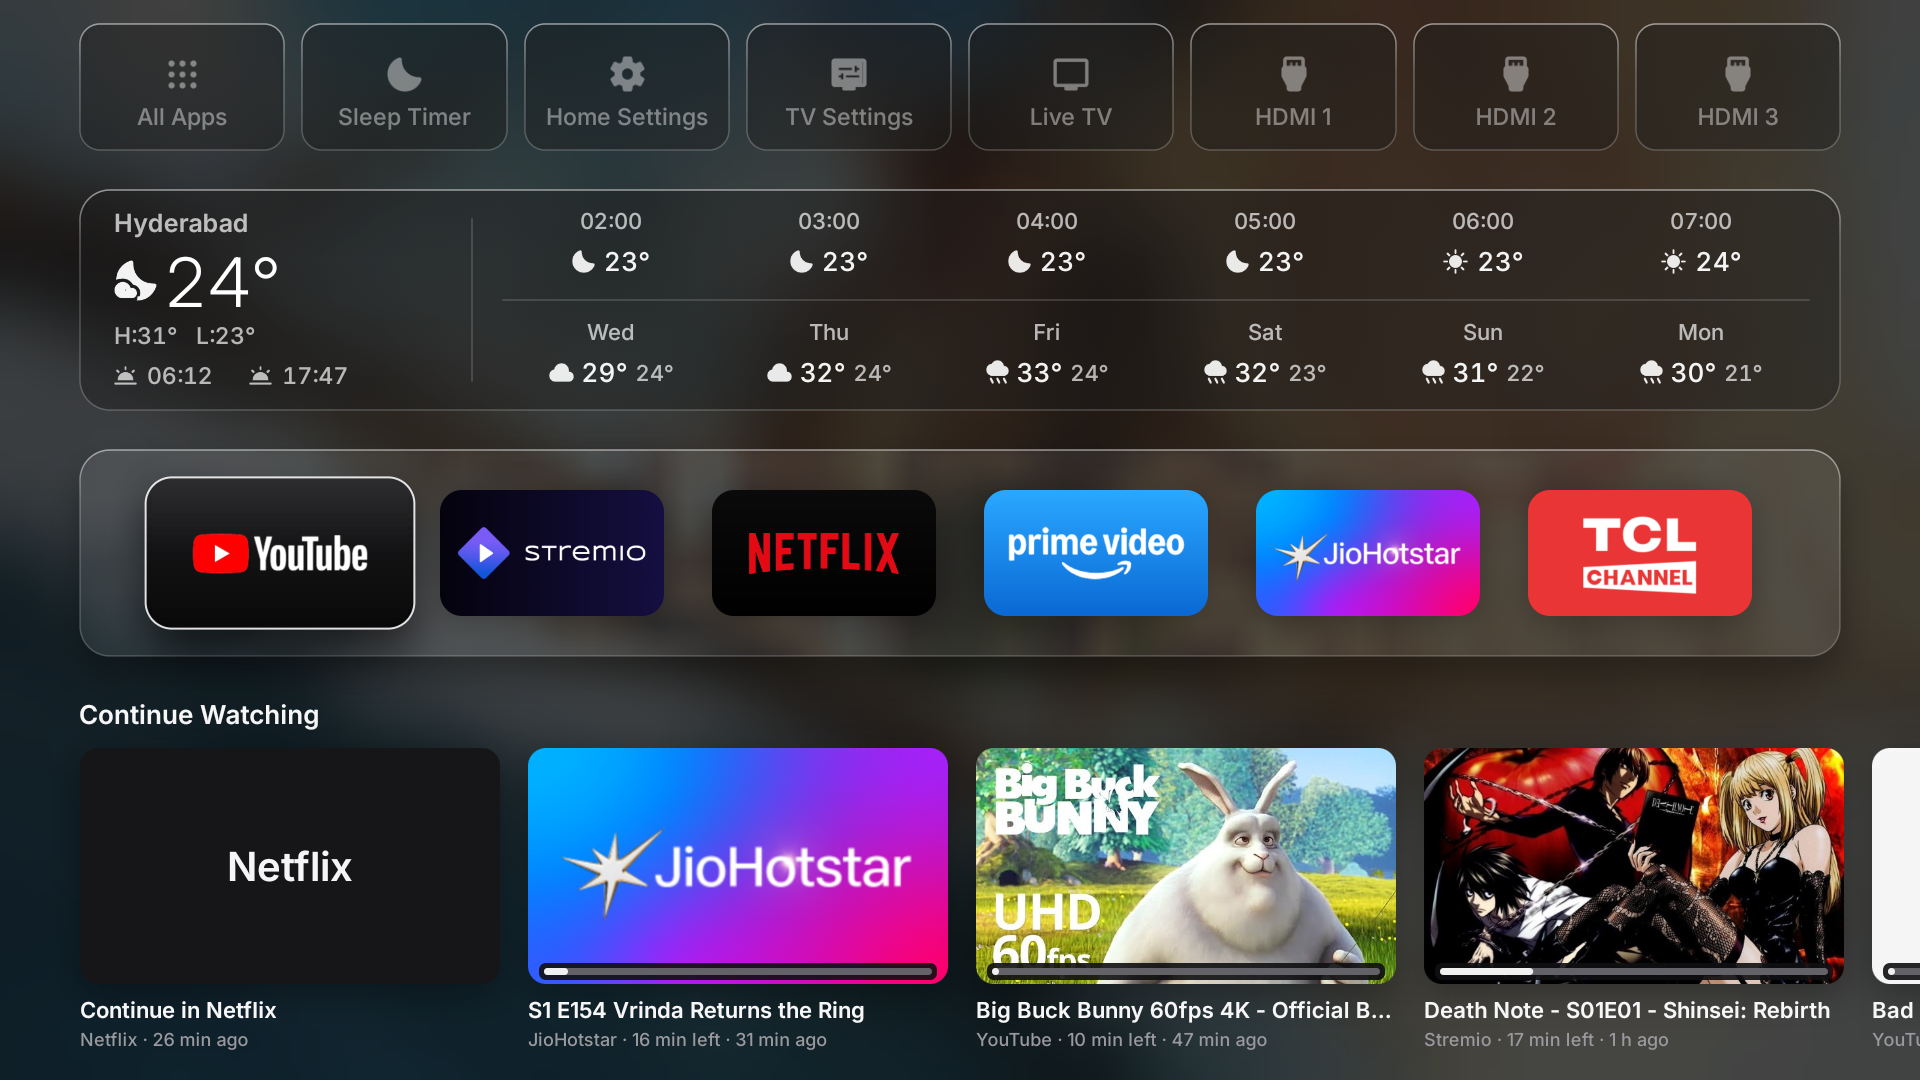
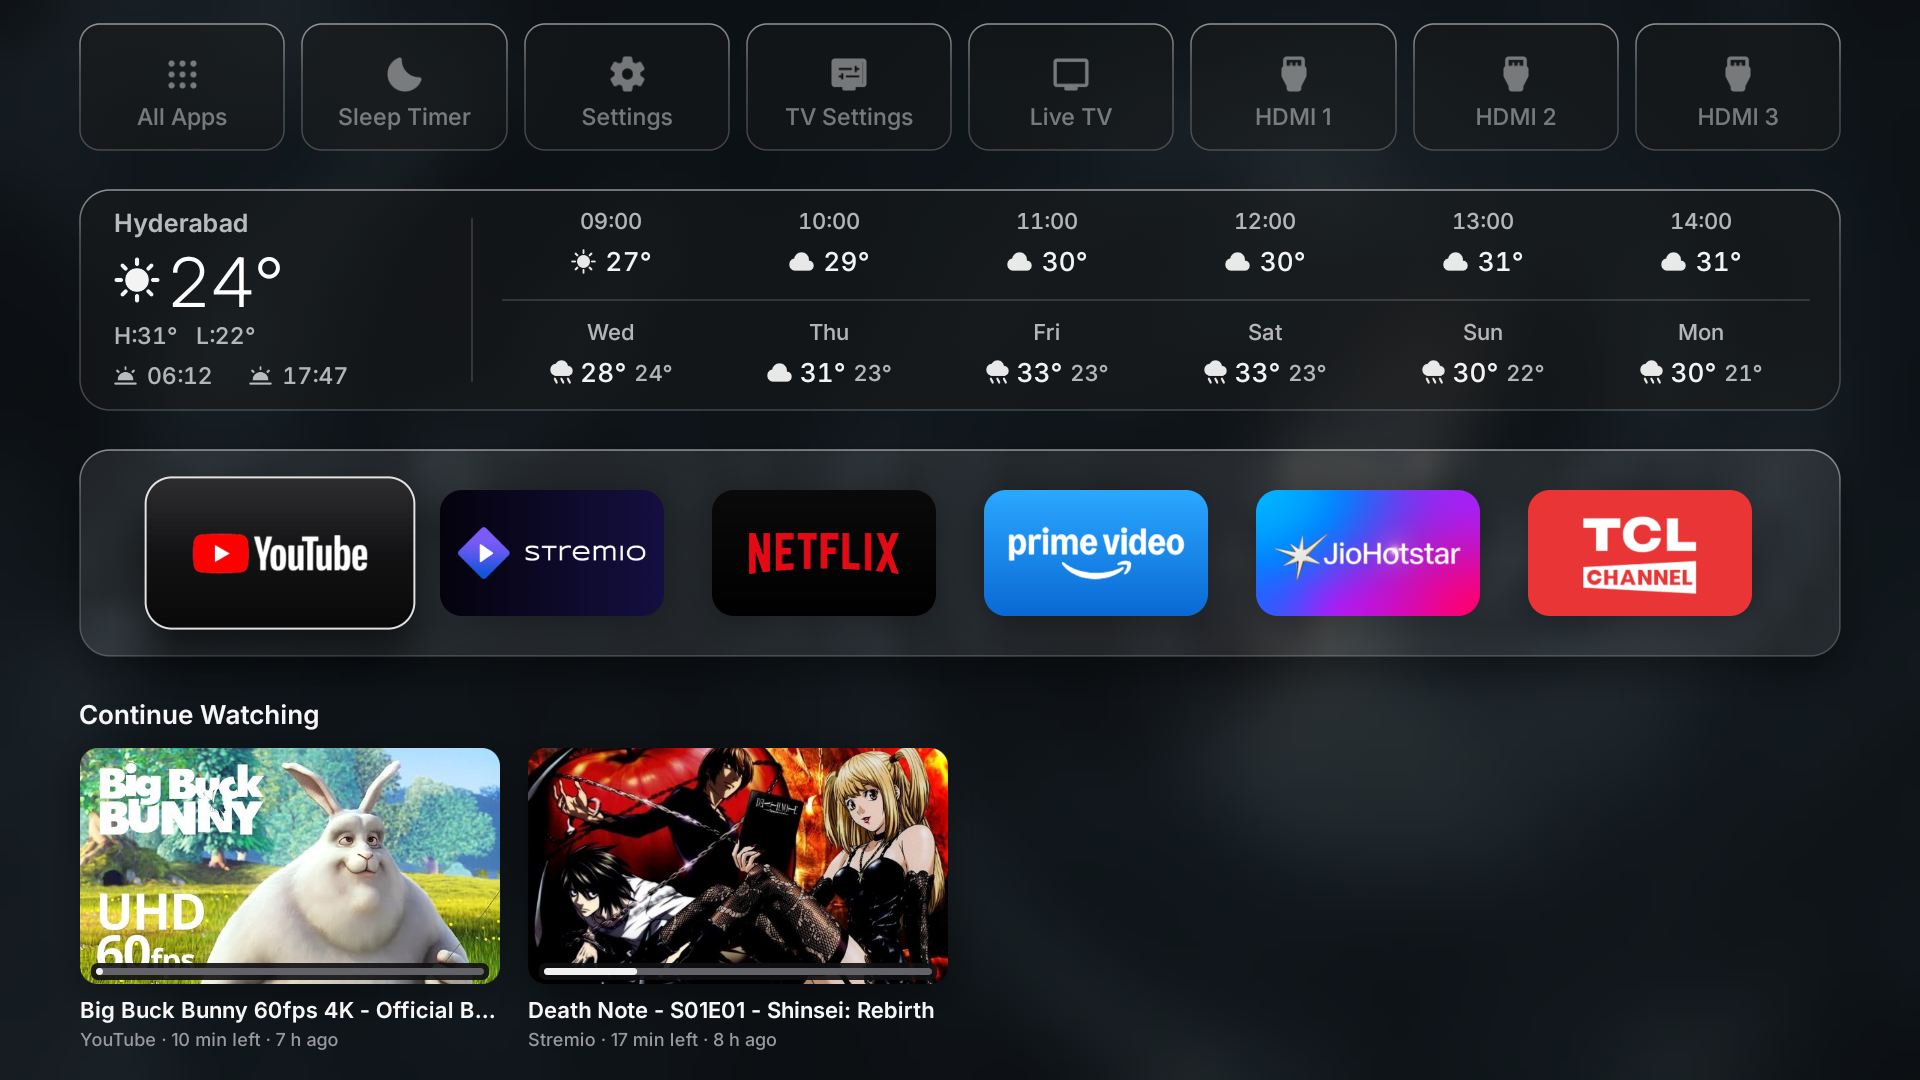
Refresh home gallery with real artwork and record branded fallback status

diff --git a/documentation/SCREENSHOTS.md b/documentation/SCREENSHOTS.md
@@ -2,11 +2,12 @@
 
 [Project](../README.md) · [Feature register](../FEATURES.md) · [Settings polish evidence](../design/SETTINGS_CLARITY_VERIFICATION.md) · [Earlier Settings evidence](../design/SETTINGS_VERIFICATION.md)
 
-Updated October 27, 2026. These are genuine 1920 × 1080 TCL Android 12 captures, inspected at full resolution. The current Settings captures come from `b88a229` (Vibe TV branding and clearer destinations) built on integrated main `a493c66`, preserving Settings `e740614` and playback `9d4473b`. Home and alternative-theme captures below are earlier device evidence, identified individually. These are source-build captures, not screenshots of a tagged binary release. Theme-picker thumbnails are illustrations; full-screen views are actual device captures.
+Updated October 27, 2026. These are genuine 1920 × 1080 TCL Android 12 captures, inspected at full resolution. The current Settings captures come from `b88a229` (Vibe TV branding and clearer destinations) built on integrated main `a493c66`, preserving Settings `e740614` and playback `9d4473b`. The home capture is refreshed from `3e382d0`, which includes that Settings polish plus branded app-art fallback cards. Alternative-theme captures below remain earlier device evidence, identified individually. These are source-build captures, not screenshots of a tagged binary release. Theme-picker thumbnails are illustrations; full-screen views are actual device captures.
 
 | Checked-in capture | Original local capture | Provenance / observed state |
 |---|---|---|
-| [Final home](screenshots/home-playback.png) | `final/16-final-home.png` | Final `e740614` installed build; Vibe TV 1/default order, Netflix app-level card, JioHotstar logo fallback, YouTube/Stremio artwork and progress |
+| [Final home](screenshots/home-playback.png) | `netflix-card-art/04-gallery-home.png` | Installed `3e382d0`; Vibe TV 1/default order, YouTube and Stremio artwork/progress. Netflix, JioHotstar and an older logo-only YouTube entry dismissed through normal card menus for the gallery view. |
+| [Branded app-art fallback](screenshots/playback-app-art.png) | `netflix-card-art/01-branded-fallback.png` | Same installed build before the gallery cleanup; Netflix uses its installed app art like JioHotstar, while retaining the explicit Continue in Netflix caption. This is app branding, not a movie thumbnail. |
 | [Theme picker](screenshots/settings-themes.png) | `settings-clarity/02-themes.png` | Installed `b88a229`; Vibe TV header, Themes palette icon, distinct Home Layout / Preferences destinations |
 | [Widgets](screenshots/settings-widgets.png) | `settings-clarity/06-widgets.png` | Installed `b88a229`; updated rail labels, continuous Widgets and following Shelf content |
 | [Home Layout](screenshots/settings-sections.png) | `settings-clarity/03-layout.png` | Installed `b88a229`; Home Layout editor, stacked-section icon, first row focused |
@@ -15,11 +16,13 @@ Updated October 27, 2026. These are genuine 1920 × 1080 TCL Android 12 captures
 | [Preferences](screenshots/settings-preferences.png) | `settings-clarity/05-preferences-crossing.png` | Installed `b88a229`; right-side Down crossed into Language and updated the rail selection |
 | [Earlier reboot evidence](screenshots/home-after-reboot.png) | `post-reboot-home.png` | Historical Home + initial playback baseline, before final themes/artwork; does not establish final-build reboot acceptance |
 
-The source captures live under `/tmp/free-my-tv-tv-check/`. Firmware/identity details and final integration checks are recorded in [integration verification](../design/INTEGRATION_VERIFICATION.md). Streaming-app versions were not recorded for the earlier provider tests. City weather and test title metadata remain visible; no network address, account identity or credentials appear in these captures.
+The source captures live under `/tmp/free-my-tv-tv-check/`. The refreshed home/app-art captures were taken on the TCL Smart TV Pro (retail reference 55Q6CS), Android 12, from app version 1.2 / version code 3. They include `b88a229` Settings behavior and `3e382d0` card rendering; the working tree had only documentation/capture changes after installation. Firmware/identity details and final integration checks are recorded in [integration verification](../design/INTEGRATION_VERIFICATION.md). Streaming-app versions were not recorded for the earlier provider tests. City weather and test title metadata remain visible; no network address, account identity or credentials appear in these captures.
 
 ## Final home
 
 ![Vibe TV 1 final installed home](screenshots/home-playback.png)
+
+The image is an unedited hardware capture. The user requested an artwork-led gallery view, so logo-only entries were removed using the existing long-press menu before capture; this does not add thumbnail support to Netflix or JioHotstar. [The same build before cleanup](screenshots/playback-app-art.png) records Netflix’s branded fallback. Provider limits remain in [PLAYBACK_STATUS.md](../PLAYBACK_STATUS.md).
 
 ## Theme selection
 

diff --git a/PLAYBACK_STATUS.md b/PLAYBACK_STATUS.md
@@ -26,7 +26,7 @@ integrating a new home theme. `stable` remains at `b920f4a`; playback `9d4473b` 
 | YouTube | Title, thumbnail and contrasting progress bar verified with a public Blender video. | Existing session resumes; a video ID can provide a direct video link when the app supplies one. |
 | Stremio | Title/progress confirmed by the user; exact-title fallback artwork verified on the TV. | Reopens Stremio and uses its own saved playback. |
 | JioHotstar | Episode title and duration/progress verified. No thumbnail: live metadata had no artwork, series name or media ID. | App/current episode reopened and published PLAYING with an advancing position. Exact-title deep links are not available from this session. |
-| Netflix | A real PLAYING session had null metadata, null session extras and no session launch intent. It now creates an explicit **Continue in Netflix** card, with an app-name tile rather than a fabricated title. | Card opens Netflix. Automatic playback did not reliably restart; exact-title resume and thumbnails remain unresolved. |
+| Netflix | A real PLAYING session had null metadata, null session extras and no session launch intent. It now creates an explicit **Continue in Netflix** card, with a branded app-art tile rather than a fabricated title or movie thumbnail. | Card opens Netflix. Automatic playback did not reliably restart; exact-title resume and thumbnails remain unresolved. |
 | Prime Video | Observed sessions supplied only **PrimeVideo** rather than the content title. App-level **Continue in Prime Video** fallback is implemented and covered by data tests. | App launch verified; reliable content capture and automatic resume remain unverified. |
 
 Android’s Watch Next and preview-program providers were empty during this check, so they offered no alternative title or
@@ -64,3 +64,18 @@ Viewing history is private app data on the TV. Media notifications are not read.
 may be fetched; a known YouTube ID can fetch a public thumbnail, and exact movie/show title lookups may be sent to TMDB
 when session artwork is absent. README’s privacy section reflects these requests. Credentials and full signed playback
 URLs must never be printed or committed.
+
+## Branded-card and gallery polish — 27 October 2026
+
+Runtime `3e382d0` changes the Vibe TV 1 card renderer to request app art even when a provider supplies no content title.
+Netflix now uses its installed app artwork through the same tile path as JioHotstar. Real content artwork still takes
+priority; text is a temporary fallback only if app artwork is unavailable. This is a visual change: Netflix/Prime
+exact-title capture, thumbnails and reliable automatic resume remain unresolved as recorded above.
+
+Built and installed with Java 17 / platform 34 / build-tools 34.0.0. Full `tools/check.sh` passed, including all 271
+translation keys, generic LG/Samsung packaging and legacy web checks. Both 1920 × 1080 captures were inspected at original
+resolution. The user-requested gallery view was prepared with the existing long-press removal menu: Netflix, JioHotstar
+and an older logo-only YouTube entry were dismissed, leaving YouTube and Stremio artwork/progress. Home return confirmed
+those entries stayed removed. The normal dock apps remain present. This pass did not repeat provider playback or the
+19 data-regression cases, since session handling and storage did not change. Current images and provenance are in
+[documentation/SCREENSHOTS.md](documentation/SCREENSHOTS.md).

diff --git a/DESIGN.md b/DESIGN.md
@@ -82,7 +82,7 @@ Hold recommendation choices steady while the home screen remains open. Advance t
 
 In Vibe TV 1's default order, show this row above recommendations only when it contains saved items. It is opt-in in **Preferences → Widgets** and shares media-session access with Now Playing. Keep at most twelve entries; YouTube expires after two days and other services after ten. The listener captures playback while other apps are in front. Prefer session artwork, then an exact-title TMDB fallback for movies/shows, then app artwork. Only show progress and remaining time when valid duration data exists, and keep the progress fill contrasting against a dark backing.
 
-YouTube title/artwork/progress and Stremio title/artwork/progress are verified on this TCL. A known YouTube video ID can open the video directly; Stremio reopens its own saved playback. Netflix's observed session has no useful metadata, so show **Continue in Netflix** with an app tile. Prime Video similarly uses an app-level fallback. Their app launches do not establish exact-title capture, thumbnails or reliable automatic playback. JioHotstar title/progress are verified, but its session has no unambiguous thumbnail or series identifier. Preserve the app-logo fallback. Provider facts and remaining limitations are recorded in [PLAYBACK_STATUS.md](PLAYBACK_STATUS.md), based on the `9d4473b` playback baseline.
+YouTube title/artwork/progress and Stremio title/artwork/progress are verified on this TCL. A known YouTube video ID can open the video directly; Stremio reopens its own saved playback. Netflix's observed session has no useful metadata, so show **Continue in Netflix** with the same branded app-art tile path used for JioHotstar. An empty content title must not suppress app artwork; use plain app-name text only while no app art is available. Prime Video similarly uses an app-level fallback. Their app launches do not establish exact-title capture, thumbnails or reliable automatic playback. JioHotstar title/progress are verified, but its session has no unambiguous thumbnail or series identifier. Preserve the app-logo fallback. Provider facts and remaining limitations are recorded in [PLAYBACK_STATUS.md](PLAYBACK_STATUS.md), based on the `9d4473b` playback baseline.
 
 Hold OK on a resume card for **Remove from Continue Watching**, or on a recommendation for **Hide from recommendations**. Back/Cancel dismisses the menu and the original held-key release must not activate an action. Removal persists across visits and paused-session callbacks; hiding applies across recommendation shelves without rotating the remaining choices. Preserve this tested Vibe TV 1 behavior during theme integration; record per-theme checks before claiming equivalent support elsewhere.
 

diff --git a/FEATURES.md b/FEATURES.md
@@ -13,7 +13,7 @@ Updated October 27, 2026 after combining the three chats into `main`. Home basel
 | Continuous Settings | Device checked: rail anchors, cross-section navigation, 11th Shelf item, sleep cancel, reachable About content | `SettingsActivity.java`, `Prefs.java` | All 26 languages and spoken TalkBack not hardware tested |
 | Theme picker | Vibe TV 1, Simba (Free-My-TV), Lamplight selected/rendered on TCL; Google TV last | `HomeActivity.java`, `HomeSurface.java`, `HomeThemeThumbs.java`, `RepositoryHomeView.java`, `LamplightHomeView.java`, `ImpeccableHomeRenderer.java` | Factory-mode switch not activated in the final pass; previews are illustrations |
 | Vibe TV 1 section editor | Device checked: hide closes gaps, lift/reorder/drop persists, Back restores order/focus; defaults restored | `HomeSections.java`, `HomeView.java`, `SettingsActivity.java` | Conditional on Vibe TV 1; exhaustive order model is not exhaustive hardware coverage |
-| Continue Watching | YouTube/Stremio artwork and progress; title/progress and app-level resume limits documented per service | `Resume.java`, `NowPlaying.java`, `HomeView.java` | Netflix/Prime exact-title capture/resume and JioHotstar artwork unresolved |
+| Continue Watching | YouTube/Stremio artwork and progress; branded app-art fallback checked for Netflix; title/progress and app-level resume limits documented per service | `Resume.java`, `NowPlaying.java`, `HomeView.java` | Netflix/Prime exact-title capture/resume and JioHotstar artwork unresolved |
 | Card controls | Device checked: long OK removes history or hides recommendations across shelves; cancel/release suppression | `HomeView.java`, `Resume.java`, `Recs.java` | Other custom themes do not automatically inherit Vibe's card-control verification |
 | History retention | 2 days YouTube, 10 days other services, at most 12 entries; dismissed/expired paused sessions stay removed | `Resume.java`; `tools/tests/HistoryChecks.java` | Metadata depends on streaming apps |
 | Screensaver, photos, remote buttons | Inherited with shared playback integration | `DreamView.java`, `Screensaver.java`, `ScreensaverAlone.java`, `RemoteKeys.java`, `RemoteKeyService.java` | Validate per firmware; preserve recovery |

diff --git a/COMPATIBILITY.md b/COMPATIBILITY.md
@@ -21,7 +21,7 @@ These summarize the TCL playback tests for `9d4473b`, preserved in final Setting
 | YouTube | Device checked | Title, duration and progress checked | Real video thumbnail captured in the integrated revision | Same public video reopened at saved playback position in baseline test | Direct video opening requires a usable video ID; other sessions can fall back to app opening |
 | Stremio | Launch path checked | Episode and progress shown in the integrated capture | Artwork visible in the integrated capture | App reopen path implemented | Exact-title resume not established by an end-to-end public report |
 | JioHotstar | Device checked | Episode title and progress/duration observed during playback | Missing; app logo fallback | Reopen checked by playback chat | No artwork, series name or content ID in inspected live session; title-specific resume not proven |
-| Netflix | Launch path checked | Live session supplied no title or content ID; user reported capture and reopen failures | No verified title artwork | Integrated revision implements “Continue in Netflix” app-level fallback | Exact-title capture/resume remains unresolved; app opening checked; reliable playback restart unresolved |
+| Netflix | Launch path checked | Live session supplied no title or content ID; user reported capture and reopen failures | Branded app-art fallback checked in `3e382d0`; no verified title artwork | Integrated revision implements “Continue in Netflix” app-level fallback | Exact-title capture/resume remains unresolved; app opening checked; reliable playback restart unresolved |
 | Prime Video | Launch path checked | Tests exposed generic “PrimeVideo” metadata; user reported failure | No verified title artwork | Integrated revision implements app-level fallback | Exact-title capture/resume remains unverified; app opening checked; reliable playback restart unresolved |
 | TCL Channel and other dock apps | Visible on the test dock | Not tested | Not tested | Not tested | Presence is not evidence of playback integration |
 

diff --git a/README.md b/README.md
@@ -8,7 +8,7 @@ A remote-first home for Android TV: your apps, useful weather, and room to keep 
 
 ![Vibe TV development build on the TCL test TV: shortcuts, weather, app dock and Continue Watching](documentation/screenshots/home-playback.png)
 
-*TCL home capture from the integrated Settings + playback baseline (`e740614`), October 27, 2026. The Settings capture below is updated to `b88a229`; see the [capture record](documentation/SCREENSHOTS.md). Android’s installed app label and package identifiers remain unchanged.*
+*Actual TCL capture from `3e382d0`, October 27, 2026: YouTube/Stremio artwork and the clearer Settings menu. [Capture details and provider limits](documentation/SCREENSHOTS.md). Android’s installed app label and package identifiers remain unchanged.*
 
 ## The experience
 
